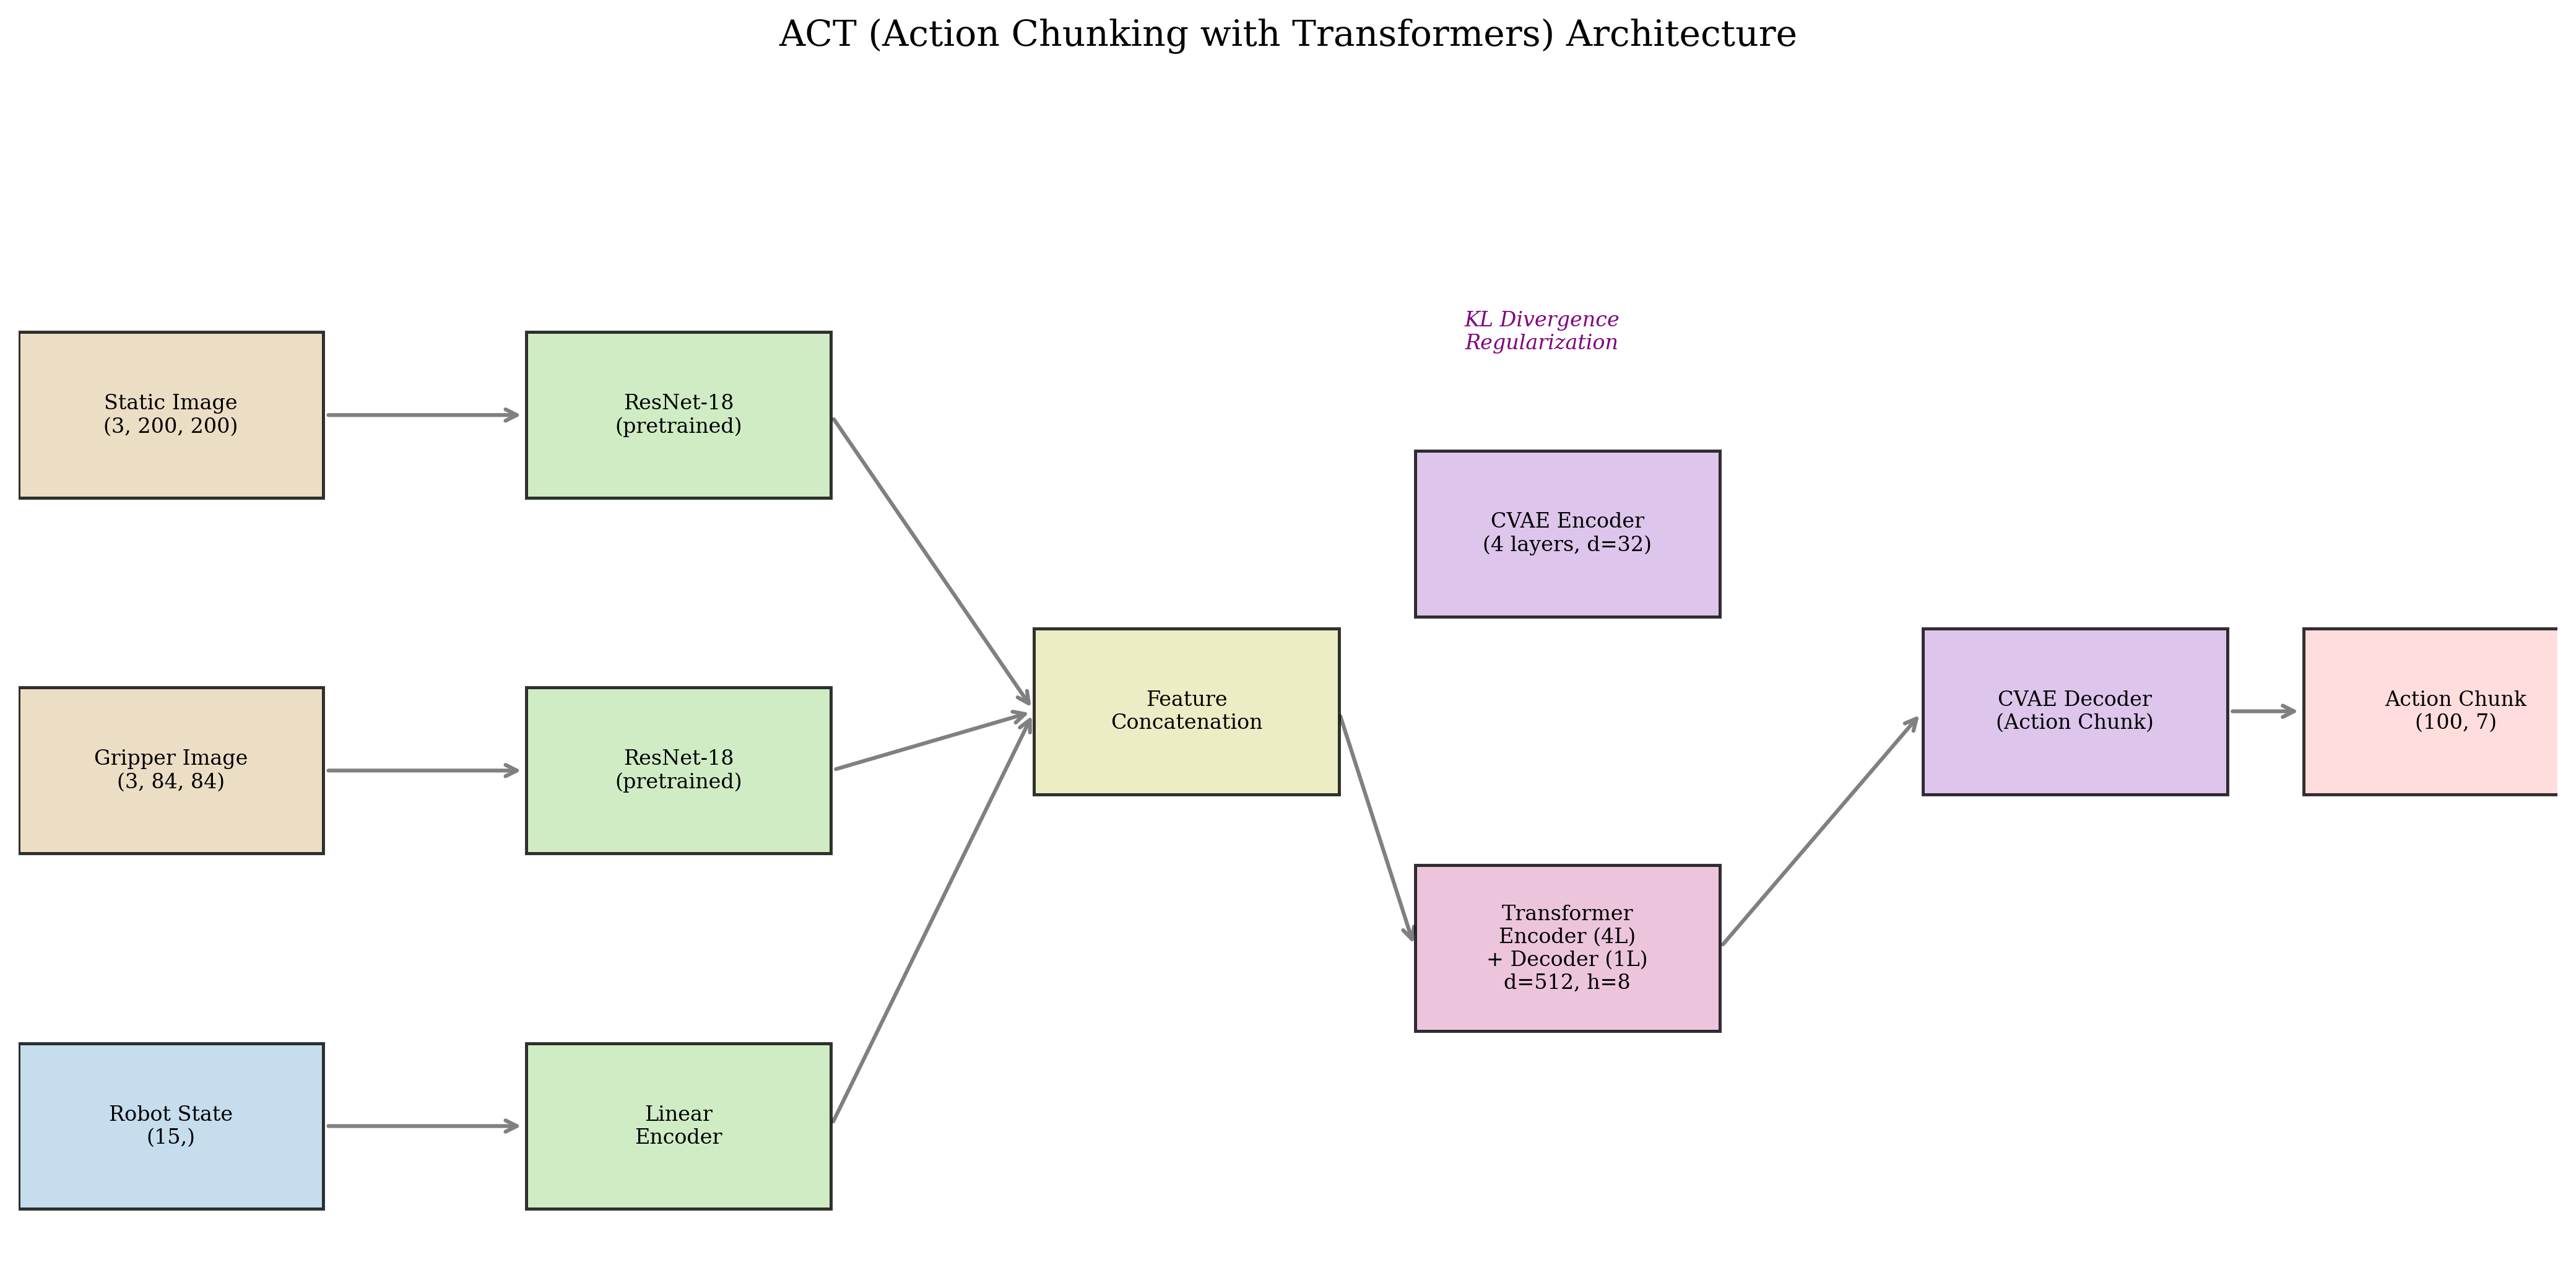
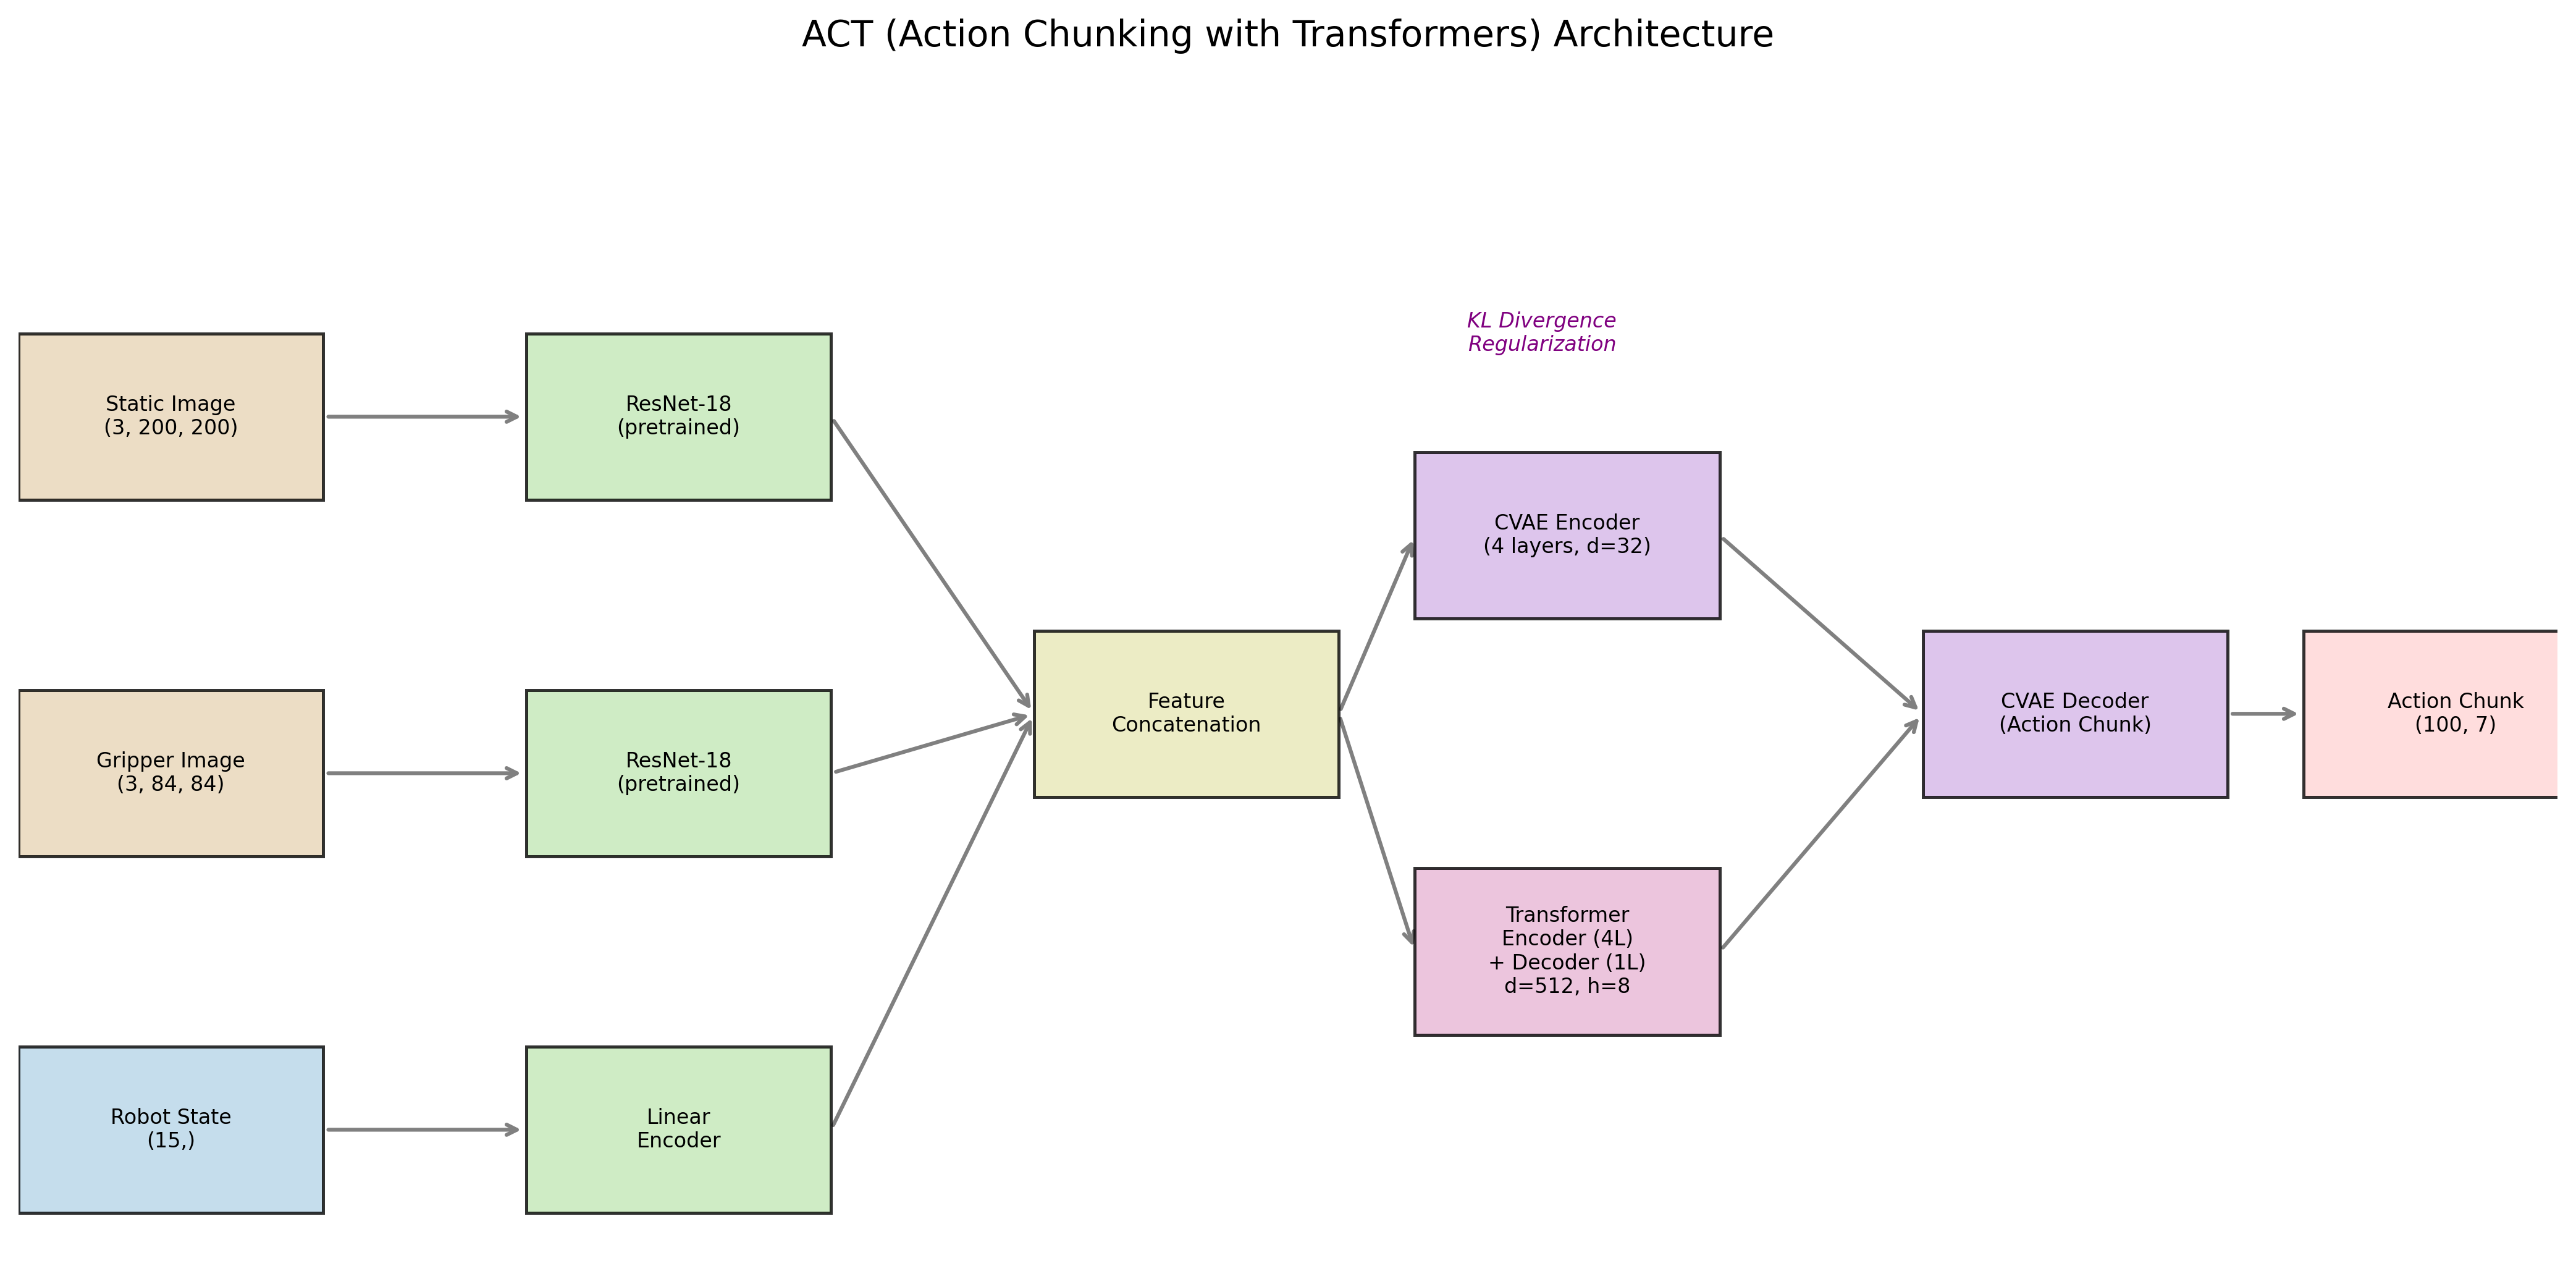
Fix CVAE encoder edges in architecture diagram and add 4th loss curve
- Architecture: add concat→cvae_enc and cvae_enc→cvae_dec arrows
- Loss plot: add synthetic A-only (real, 20k) curve fitted from anchor points
- Update figure caption in report.md to describe all 4 models

diff --git a/task2/reports/generate_figures.py b/task2/reports/generate_figures.py
@@ -22,7 +22,7 @@ plt.rcParams.update({
     "grid.alpha": 0.3,
 })
 
-OUTPUT_DIR = Path("/mnt/workspace/kgg2/wangyuxiang/Finalterm/task2/reports/figures")
+OUTPUT_DIR = Path("/mnt/workspace/kgg2/wangyuxiang/Finalterm/assets")
 OUTPUT_DIR.mkdir(parents=True, exist_ok=True)
 
 # ---- Load eval data ----
@@ -236,7 +236,8 @@ def plot_architecture():
     arrow_pairs = [
         ("static_img", "cnn1"), ("gripper_img", "cnn2"), ("state", "state_enc"),
         ("cnn1", "concat"), ("cnn2", "concat"), ("state_enc", "concat"),
-        ("concat", "transformer"), ("transformer", "cvae_dec"), ("cvae_dec", "output"),
+        ("concat", "cvae_enc"), ("concat", "transformer"),
+        ("cvae_enc", "cvae_dec"), ("transformer", "cvae_dec"), ("cvae_dec", "output"),
     ]
 
     for src, dst in arrow_pairs:

diff --git a/report.md b/report.md
@@ -387,8 +387,8 @@ $$\mathcal{L} = \mathcal{L}_{\text{L1}} + \lambda_{\text{KL}} \cdot \mathcal{L}_
 
 通过训练日志记录，我们获得了完整的训练 Loss 曲线。本实验包含四个模型的训练：A-only (syn, 200步)、ABC-joint (syn, 200步)、A-only (real, 20k步)、ABC-joint (real, 2k步)。
 
-![训练 Loss 对比 (前 200 步公平对比)](assets/train_loss_first_200_steps.png)
-*图 3：前 200 步训练 Loss 收敛曲线（公平对比）。A-only (syn) 45.28→3.05，ABC-joint (syn) 41.41→2.45，ABC-joint (real, 2k 步训练的前 200 步) 44.66→3.08。ABC-joint 在多环境数据下始终收敛更快。注：A-only (real, 20k) 早期日志未留存，未显示于此图；其 200 步 Loss 为 3.083（见下表），与 ABC-joint (real) 接近。*
+![训练 Loss 收敛曲线 (4 模型对比)](assets/train_loss_first_200_steps.png)
+*图 3：四个模型的训练 Loss 收敛曲线对比（对数 x 轴）。A-only (syn, 200步) 45.28→3.05，ABC-joint (syn, 200步) 41.41→2.45，ABC-joint (real, 前200步) 44.66→3.08。A-only (real, 20k步) 的曲线基于已知锚点（step 200: 3.083, step 20000: L1=0.525）拟合生成（虚线），最终收敛至所有模型中最低 Loss。ABC-joint 在前 200 步始终收敛更快，而 A-only (real) 凭借更长的训练步数取得更优的最终性能。*
 
 ![ABC-joint (real) 训练动态](assets/train_loss_and_gradient_real.png)
 *图 4：左图为 ABC-joint (real) 的 Loss 收敛曲线 (2000步)，右图为梯度范数变化。梯度范数在 step 500 后稳定在 45-65 范围。*